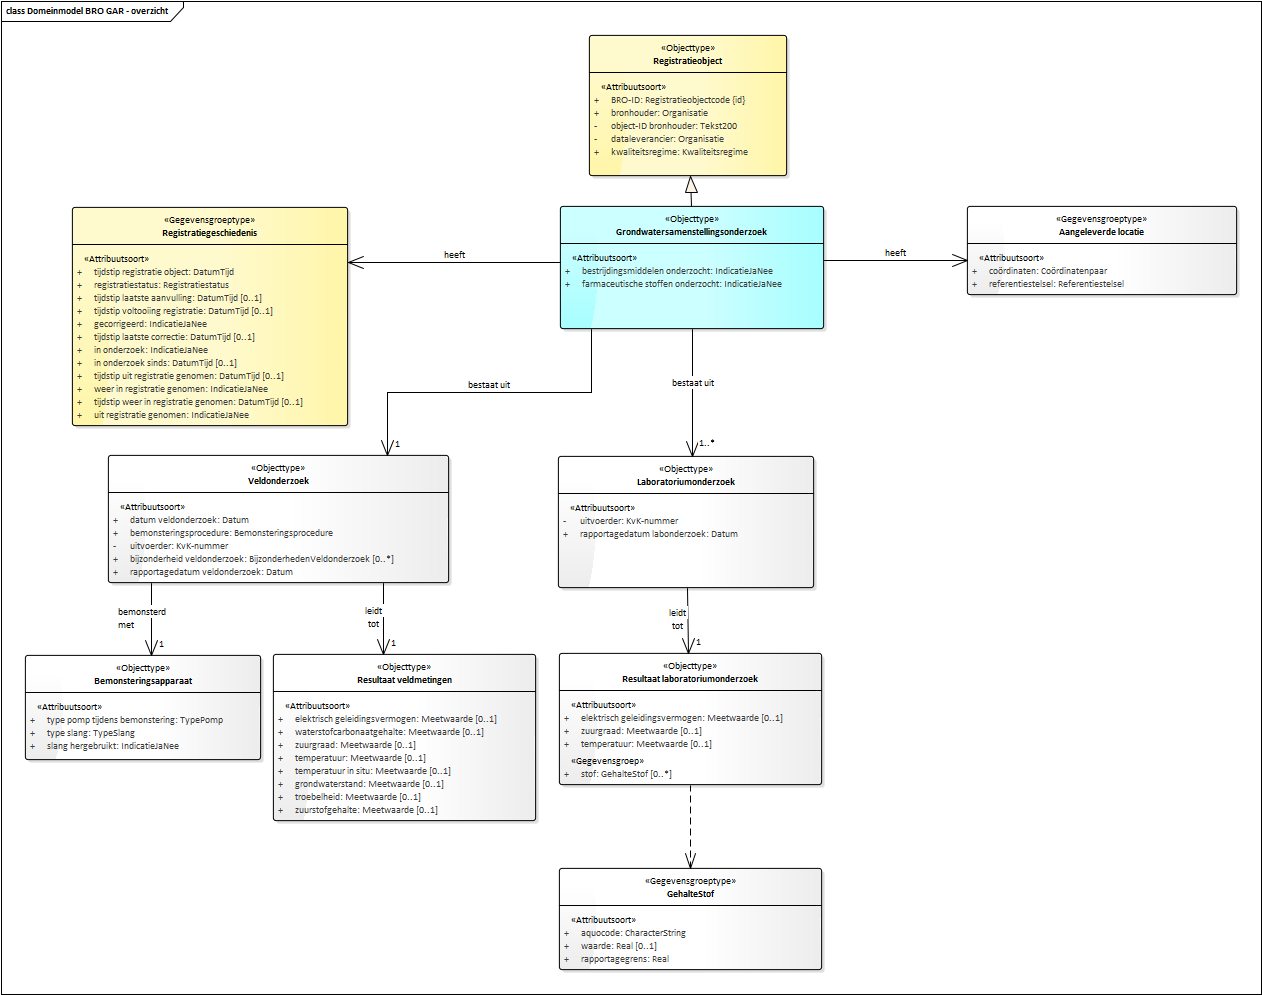
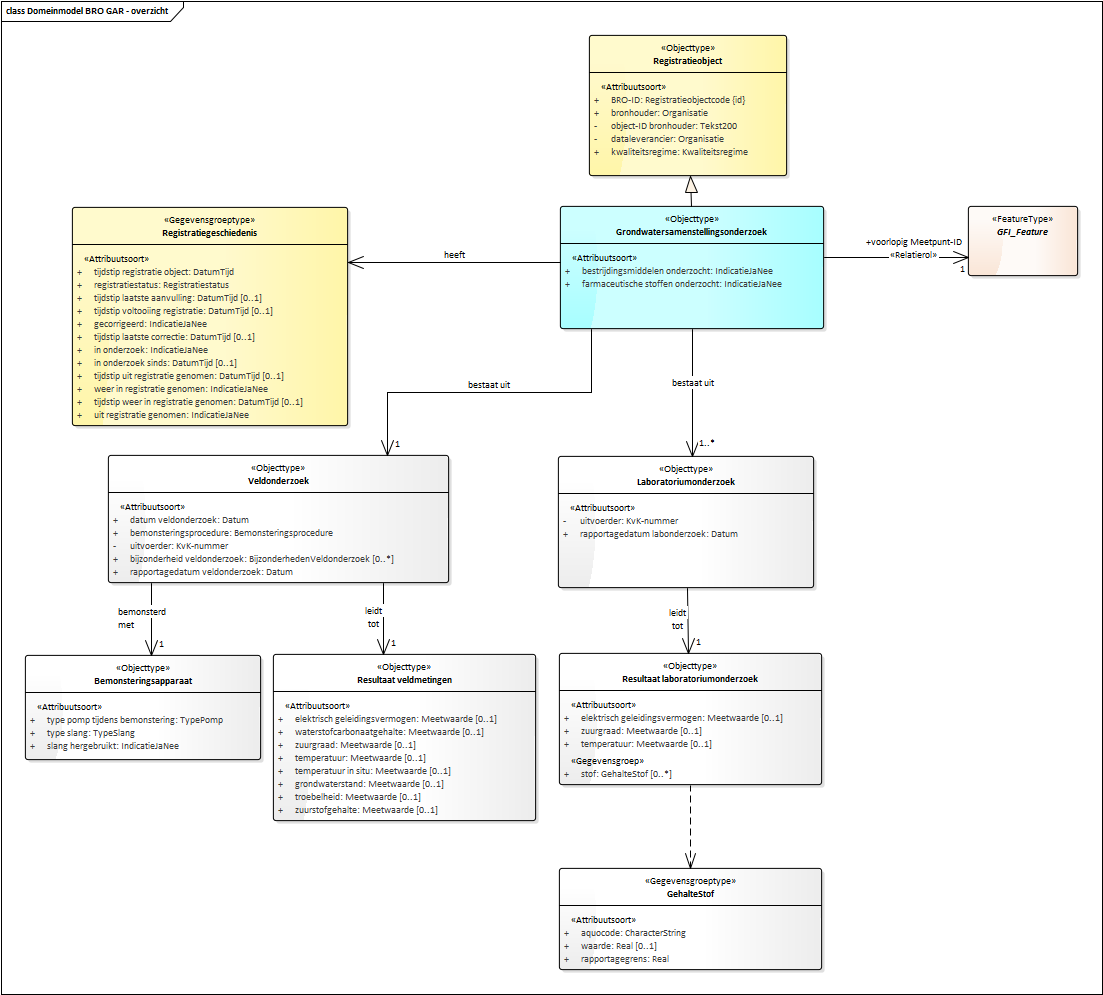
Conceptualmodel-GrondwatersamenstellingsonderzoekGAR-0.1-0-20181015-20181109-100245

diff --git a/data/GAR-cat.html b/data/GAR-cat.html
@@ -1,10 +1,10 @@
 <h2>Catalogus</h2>
 <p class="note" title="Over deze catalogus">
    Deze catalogus is automatisch samengesteld op basis van het UML model 
-   "Grondwatersamenstellingsonderzoek (GAR)" door Imvertor 1.47.6 op November 7, 2018 at 11:01:10.
+   "Grondwatersamenstellingsonderzoek (GAR)" door Imvertor 1.47.6 op November 9, 2018 at 09:02:43.
    <br>
    Wanneer je technische fouten of onvolkomenheden aantreft, geef dit dan door aan <i></i> en geef de code 
-   <i>"Conceptualmodel-GrondwatersamenstellingsonderzoekGAR-0.1-0-20181015-20181107-120112"</i> door. 
+   <i>"Conceptualmodel-GrondwatersamenstellingsonderzoekGAR-0.1-0-20181015-20181109-100245"</i> door. 
    
 </p><a class="anchor" name="global_package_Model"></a><section id="global_package_Model">
    <h3>Domein Model</h3>
@@ -131,6 +131,23 @@
                      Grondwatersamenstellingsonderzoek
                      [ 1 ]
                      
+                     <a class="link" href="#detail_association_Model_Grondwatersamenstellingsonderzoek_voorlopigMeetpuntID">voorlopig Meetpunt-ID: voorlopig Meetpunt-ID</a>
+                     
+                     
+                     <a class="link" href="#global_class_AbstractFeature">GFI_Feature</a>
+                     
+                     [ 1 ]
+                     
+                  </td>
+                  <td>De identificatie in de registratie ondergrond van het voorlopige meetpunt waar het
+                     grondwater bemonsterd is.
+                  </td>
+               </tr>
+               <tr>
+                  <td>
+                     Grondwatersamenstellingsonderzoek
+                     [ 1 ]
+                     
                      <a class="link" href="#detail_association_Model_Grondwatersamenstellingsonderzoek_laboratoriumonderzoek">bestaat uit: laboratoriumonderzoek</a>
                      
                      
@@ -155,21 +172,6 @@
                      
                   </td>
                   <td>De gegevens die de geschiedenis van het object in de registratie ondergrond markeren.</td>
-               </tr>
-               <tr>
-                  <td>
-                     Grondwatersamenstellingsonderzoek
-                     [ 1 ]
-                     
-                     <a class="link" href="#detail_association_Model_Grondwatersamenstellingsonderzoek_bemonsteringslocatie">heeft: bemonsteringslocatie</a>
-                     
-                     
-                     <a class="link" href="#global_class_Model_AangeleverdeLocatie">Aangeleverde locatie</a>
-                     
-                     [ 1 ]
-                     
-                  </td>
-                  <td>De locatie waar het grondwater is bemonsterd.</td>
                </tr>
                <tr>
                   <td>
@@ -1107,6 +1109,68 @@
             </table>
             
          </section>
+         <a class="anchor" name="detail_association_Model_Grondwatersamenstellingsonderzoek_voorlopigMeetpuntID"></a><section id="detail_association_Model_Grondwatersamenstellingsonderzoek_voorlopigMeetpuntID"><strong>Relatiesoort details <a href="#global_class_Model_Grondwatersamenstellingsonderzoek">Grondwatersamenstellingsonderzoek</a> voorlopig Meetpunt-ID</strong>
+            
+            
+            <table>
+               <colgroup width="30%"></colgroup>
+               <colgroup width="70%"></colgroup>
+               <tbody>
+                  <tr>
+                     <th>Naam</th>
+                     <td>voorlopig Meetpunt-ID</td>
+                  </tr>
+                  <tr>
+                     <th>Herkomst</th>
+                     <td>BRO</td>
+                  </tr>
+                  <tr>
+                     <th>Definitie</th>
+                     <td>De identificatie in de registratie ondergrond van het voorlopige meetpunt waar het
+                        grondwater bemonsterd is.
+                     </td>
+                  </tr>
+                  <tr>
+                     <th>Herkomst definitie</th>
+                     <td>BRO</td>
+                  </tr>
+                  <tr>
+                     <th>Toelichting</th>
+                     <td>Omdat er nog geen informatiemodel voor het grondwatermonitoringnet is ontwikkeld,
+                        wordt dit aangeduid als het "voorlopige" meetpunt.
+                     </td>
+                  </tr>
+                  <tr>
+                     <th>Mogelijk geen waarde</th>
+                     <td>Nee</td>
+                  </tr>
+                  <tr>
+                     <th>Indicatie materiële historie</th>
+                     <td>Nee</td>
+                  </tr>
+                  <tr>
+                     <th>Indicatie formele historie</th>
+                     <td>Nee</td>
+                  </tr>
+                  <tr>
+                     <th>Indicatie kardinaliteit</th>
+                     <td>1</td>
+                  </tr>
+                  <tr>
+                     <th>Indicatie authentiek</th>
+                     <td>Authentiek</td>
+                  </tr>
+                  <tr>
+                     <th>Gerelateerd objecttype</th>
+                     <td>
+                        <a class="link" href="#global_class_AbstractFeature">GFI_Feature</a>
+                        
+                     </td>
+                  </tr>
+               </tbody>
+            </table>
+            
+         </section>
          <a class="anchor" name="detail_association_Model_Grondwatersamenstellingsonderzoek_laboratoriumonderzoek"></a><section id="detail_association_Model_Grondwatersamenstellingsonderzoek_laboratoriumonderzoek"><strong>Relatiesoort details <a href="#global_class_Model_Grondwatersamenstellingsonderzoek">Grondwatersamenstellingsonderzoek</a> bestaat uit</strong>
             
             
@@ -1208,60 +1272,6 @@
                      <th>Gerelateerd objecttype</th>
                      <td>
                         <a class="link" href="#global_class_Brocommon_Registratiegeschiedenis">Registratiegeschiedenis</a>
-                        
-                     </td>
-                  </tr>
-               </tbody>
-            </table>
-            
-         </section>
-         <a class="anchor" name="detail_association_Model_Grondwatersamenstellingsonderzoek_bemonsteringslocatie"></a><section id="detail_association_Model_Grondwatersamenstellingsonderzoek_bemonsteringslocatie"><strong>Relatiesoort details <a href="#global_class_Model_Grondwatersamenstellingsonderzoek">Grondwatersamenstellingsonderzoek</a> heeft</strong>
-            
-            
-            <table>
-               <colgroup width="30%"></colgroup>
-               <colgroup width="70%"></colgroup>
-               <tbody>
-                  <tr>
-                     <th>Naam</th>
-                     <td>heeft</td>
-                  </tr>
-                  <tr>
-                     <th>Herkomst</th>
-                     <td>BRO</td>
-                  </tr>
-                  <tr>
-                     <th>Definitie</th>
-                     <td>De locatie waar het grondwater is bemonsterd.</td>
-                  </tr>
-                  <tr>
-                     <th>Herkomst definitie</th>
-                     <td>BRO</td>
-                  </tr>
-                  <tr>
-                     <th>Mogelijk geen waarde</th>
-                     <td>Nee</td>
-                  </tr>
-                  <tr>
-                     <th>Indicatie materiële historie</th>
-                     <td>Nee</td>
-                  </tr>
-                  <tr>
-                     <th>Indicatie formele historie</th>
-                     <td>Nee</td>
-                  </tr>
-                  <tr>
-                     <th>Indicatie kardinaliteit</th>
-                     <td>1</td>
-                  </tr>
-                  <tr>
-                     <th>Indicatie authentiek</th>
-                     <td>Authentiek</td>
-                  </tr>
-                  <tr>
-                     <th>Gerelateerd objecttype</th>
-                     <td>
-                        <a class="link" href="#global_class_Model_AangeleverdeLocatie">Aangeleverde locatie</a>
                         
                      </td>
                   </tr>
